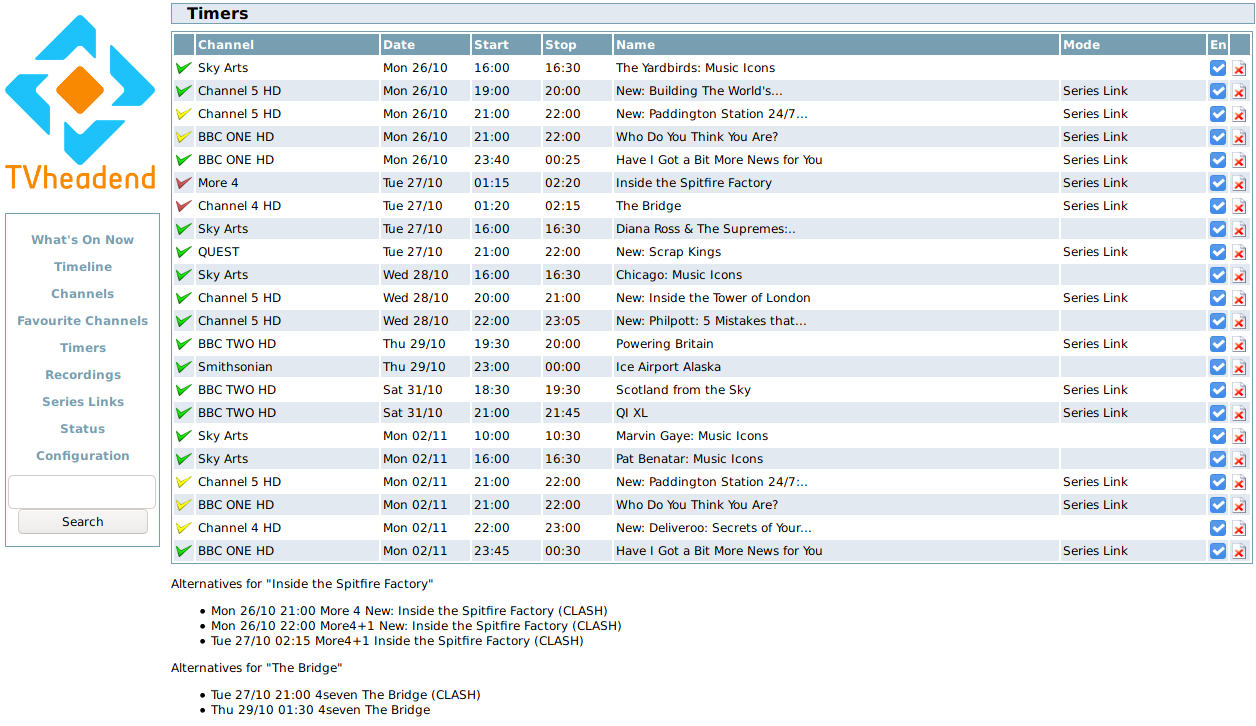
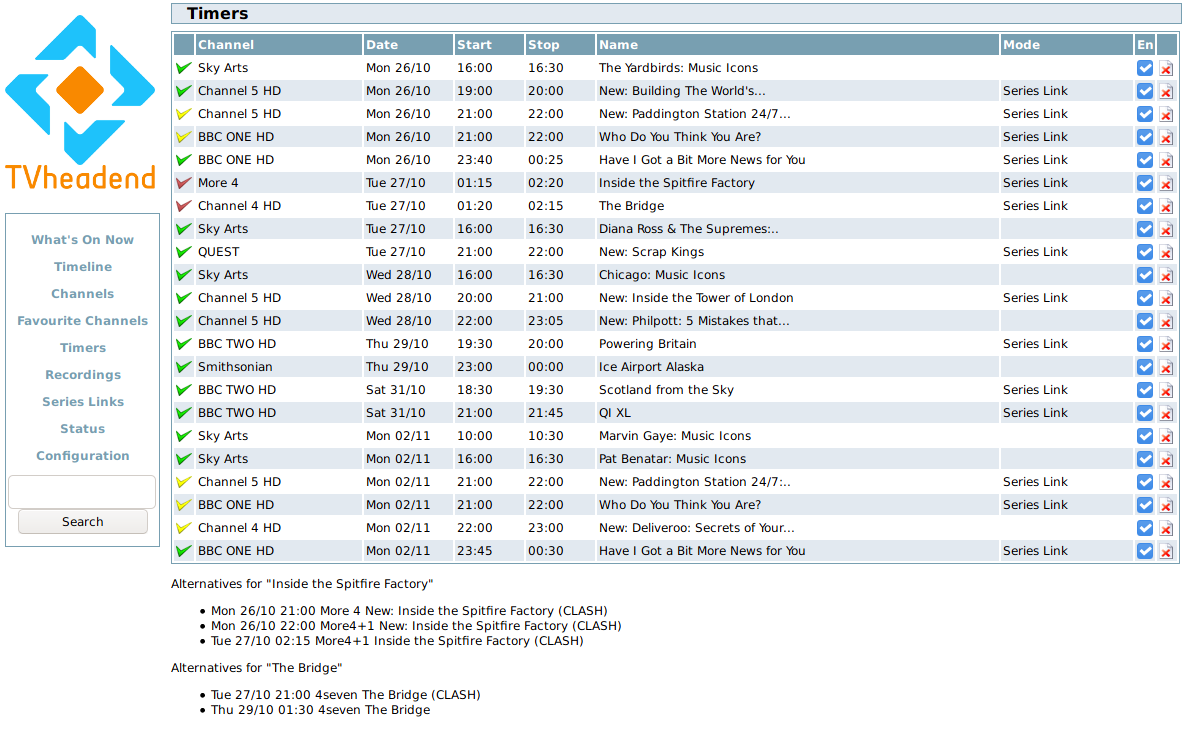
Fix scrolling behaviour (reverts c3291af).

diff --git a/links.html b/links.html
@@ -56,17 +56,19 @@
 	</tr>
       </table>
      </div>
-      <div id='content'>
-       <table class='list' id='list'>
-	<tr class='heading'>
-	  <td class='col_value'><h2>Timers</h2></td>
-	  <td class='col_value'><h2>Recs</h2></td>
-	  <td class='col_channel'><h2>Channel</h2></td>
-	  <td class='col_name'><h2>Name</h2></td>
-	  <td class='wideonly col_channel'><h2>Link</h2></td>
-	  <td class='col_delete'></td>
-	</tr>
-       </table>
+       <div id='wrapper'>
+         <div id='content'>
+           <table class='list' id='list'>
+	     <tr class='heading'>
+	       <td class='col_value'><h2>Timers</h2></td>
+	       <td class='col_value'><h2>Recs</h2></td>
+	       <td class='col_channel'><h2>Channel</h2></td>
+	       <td class='col_name'><h2>Name</h2></td>
+	       <td class='wideonly col_channel'><h2>Link</h2></td>
+	       <td class='col_delete'></td>
+	     </tr>
+           </table>
+	</div>
      </div>
    </div>
  </div>

diff --git a/recordings.html b/recordings.html
@@ -79,8 +79,9 @@
 	</tr>
       </table>
      </div>
-     <div id='content'>
-	<table class='list' id='list'>
+     <div id='wrapper'>
+       <div id='content'>
+         <table class='list' id='list'>
 	  <tr class='heading'>
 	    <td class='col_date'><h2>Date</h2></td>
 	    <td class='wideonly col_time'><h2>Time</h2></td>
@@ -90,7 +91,8 @@
 	    <td class='col_delete'></td>
 	    <td class='col_stream'></td>
 	  </tr>
-        </table>
+         </table>
+       </div>
      </div>
    </div>
   </div>
